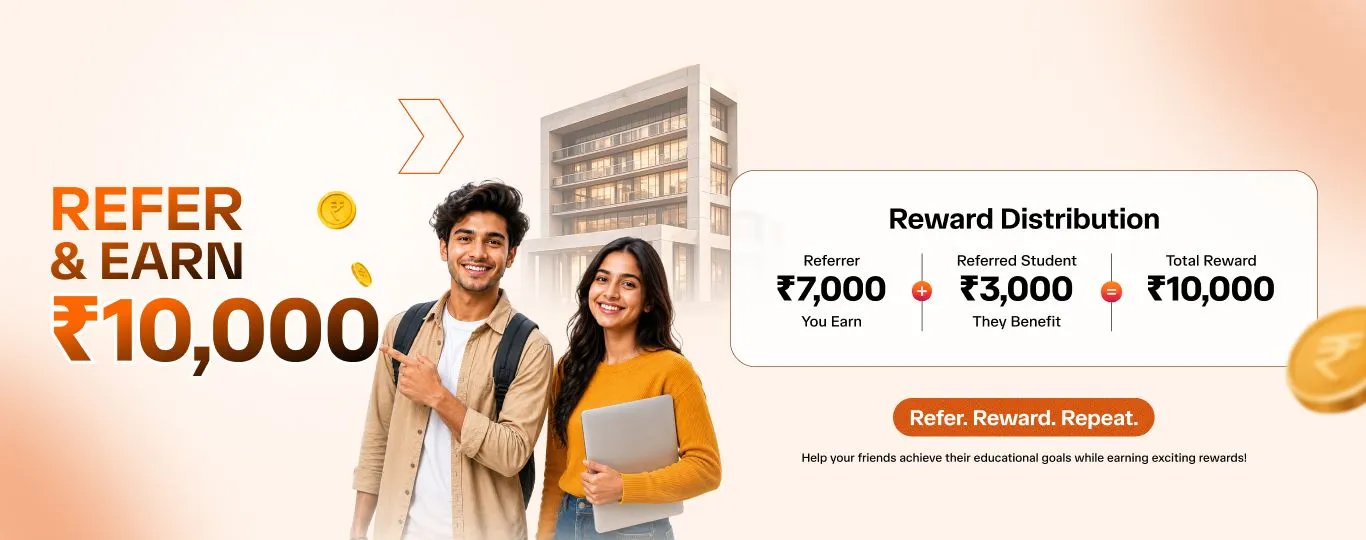
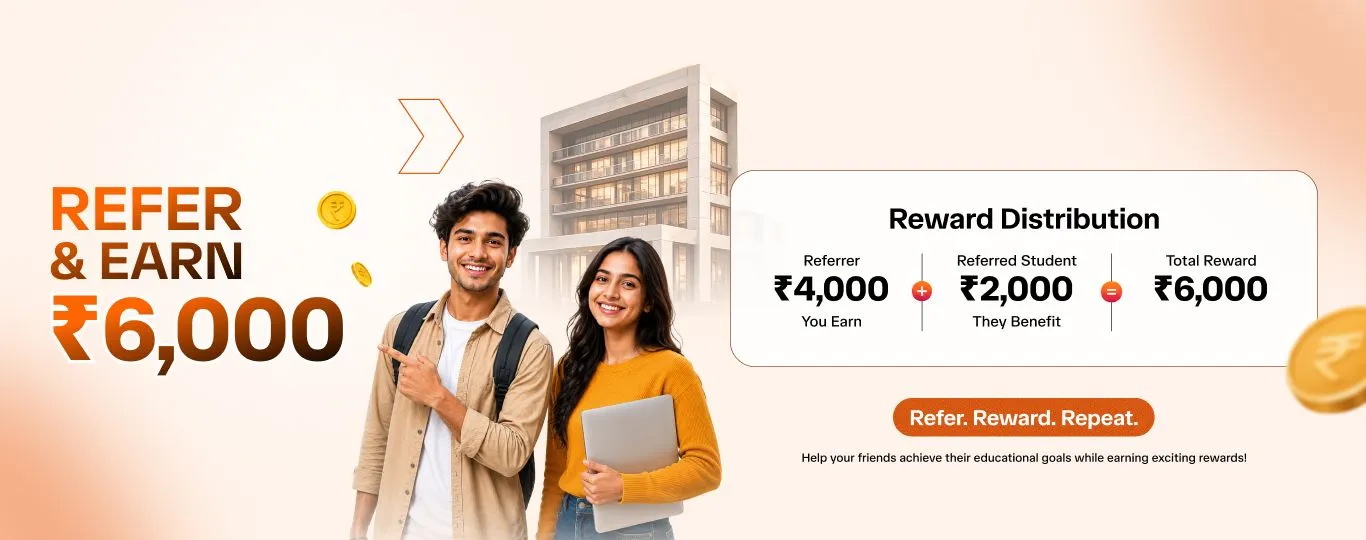
change in aboutmit, index and style of new design

diff --git a/css-new/styles.css b/css-new/styles.css
@@ -4294,3 +4294,28 @@ input.valid, select.valid, textarea.valid { border-color: #22c55e !important; }
   .ai_mobile_img{display:block}
   .ai-cta-btn{width:100%}
 }
+
+/* ── Quiz Form Panel ── */
+.quiz-form-panel{display:none;flex-direction:row;border-radius:20px;overflow:hidden;box-shadow:0 8px 32px rgba(0,0,0,.10);min-height:340px}
+.qfp-left{flex:0 0 42%;padding:2rem 1.75rem;display:flex;flex-direction:column;justify-content:center;background:linear-gradient(150deg, var(--primary-orange) 0%, #9a3412 100%)}
+.qfp-heading{font-size:1.2rem;font-weight:700;color:#fff;line-height:1.4;margin-bottom:.6rem}
+.qfp-sub{font-size:.9rem;color:#fff;}
+.qfp-right{flex:1;background:#fff;padding:1.3rem 1.4rem;display:flex;flex-direction:column;gap:0;justify-content:center}
+.qfp-right form{display:flex;flex-direction:column}
+.qfp-right .eq-submit{background:linear-gradient(90deg, var(--primary-orange), var(--accent-orange));margin-top:.3rem;cursor: pointer;transition: opacity .15s, transform .15s;}
+.qfp-right .eq-submit:hover { opacity: .9; transform: translateY(-1px); }
+
+/* ── Quiz Thanks Panel ── */
+.quiz-thanks-panel{display:none;flex-direction:column;align-items:start;text-align:start;background:#fff;border-radius:20px;padding:2.5rem 2rem;box-shadow:0 8px 32px rgba(0,0,0,.10)}
+.qtp-check{width:58px;height:58px;border-radius:50%;background:#22c55e;display:flex;align-items:center;justify-content:center;color:#fff;font-size:1.4rem;margin-bottom:1.1rem}
+.qtp-heading{font-size:1.6rem;font-weight:800;color:var(--text-dark);margin-bottom:.6rem}
+.qtp-body{font-size:.88rem;color:var(--text-light);max-width:460px;line-height:1.65;margin-bottom:1.4rem}
+.qtp-actions{display:flex;gap:.75rem;flex-wrap:wrap;justify-content:start;}
+.qtp-btn-dark{padding:.6rem 1.2rem;background:var(--text-dark);color:#fff;border:none;border-radius:50px;font-size:.84rem;font-weight:600;cursor:pointer}
+.qtp-btn-outline{padding:.6rem 1.2rem;background:transparent;color:var(--text-dark);border:1.5px solid var(--text-dark);border-radius:50px;font-size:.84rem;font-weight:600;text-decoration:none}
+@media(max-width:768px){
+  .quiz-form-panel{flex-direction:column}
+  .qfp-left{padding:1.25rem}
+  .qfp-right{padding:1.25rem}
+  .qtp-heading{font-size:1.3rem}
+}

diff --git a/assets-new/js/api/validation.js b/assets-new/js/api/validation.js
@@ -341,6 +341,44 @@ function do_form_submit(form_id) {
         });
 
         
+      } else if (form_id == "quizLeadForm") {
+        document.getElementById("quizSubmitBtn").style.visibility = "hidden";
+        var lead = {
+          AuthToken: "MITSDE-11-06-2020",
+          Source: "mitsde",
+          FirstName: $("#quizLeadForm [name='first_name3']").val(),
+          Email:     $("#quizLeadForm [name='email3']").val(),
+          MobileNumber: $("#quizLeadForm [name='MobileNumber']").val(),
+          LeadSource: "Organic-Direct-Form",
+          LeadType: "Online",
+          LeadName: "Contact us form leads",
+          Course: "Not Known",
+          State:  $("#quizLeadForm [name='state']").val(),
+          Textb1: $("#quizLeadForm [name='HQ']").val(),
+        };
+        $.ajax({
+          url: "https://thirdpartyapi.extraaedge.com/api/SaveRequest",
+          type: "POST",
+          data: JSON.stringify(lead),
+          dataType: "Text",
+          crossDomain: true,
+          contentType: "application/json; charset=utf-8",
+          success: function (response) {
+            var fd = new FormData(document.getElementById("quizLeadForm"));
+            fetch("ai-thankyou.php", { method: "POST", body: fd })
+              .finally(function () {
+                if (typeof showQuizThanks === "function") {
+                  showQuizThanks(lead.FirstName.split(" ")[0]);
+                }
+              });
+          },
+          error: function (response) {
+            alert("You have already submitted a form");
+            location.reload();
+          },
+        });
+
+
       } else if (form_id == "menuContactFlotingCity") {
         //document.getElementsByClassName("submitbtn")[1].disabled=true;
         document.getElementById("submitbtnsticky").style.visibility = "hidden";

diff --git a/index.php b/index.php
@@ -99,7 +99,7 @@
                 <!-- <div class="mc-title-big">AI</div> -->
                 <div class="mc-title-sm">Placement</div>
               </div>
-              <div class="mc-label">Know More</div>
+              <div class="mc-label"><a href="placement" class="text-dark">Know More</a></div>
             </div>
 
             <!-- AI Masterclass orange card -->
@@ -353,7 +353,7 @@
         <div class="quiz-right">
           <!-- Cube: decorative, floats outside card -->
 
-          <div class="quiz-card">
+          <div class="quiz-card" id="quizCard">
             <div class="quiz-cube">
               <img src="assets-new/images/rubiks-cube.gif" alt="AI Cube" />
             </div>
@@ -369,6 +369,76 @@
             </div>
             <div class="quiz-dots" id="quizDots"></div>
           </div>
+
+          <!-- FORM PANEL -->
+          <div class="quiz-form-panel" id="quizFormPanel">
+            <div class="qfp-left">
+              <h3 class="qfp-heading">Where should we send your recommendation?</h3>
+              <p class="qfp-sub">Please fill your details</p>
+            </div>
+            <div class="qfp-right">
+              <form id="quizLeadForm" name="quizLeadForm" novalidate accept-charset="utf-8">
+                <input type="hidden" name="csrf_test_name" value="e678298614a47d7e40efe0ccaf02b49c">
+                <input type="hidden" name="product_id3" value="0">
+                <input type="hidden" name="request_type3" value="Enquiry">
+                <input type="hidden" name="submitthirdcontact" value="submitthirdcontact">
+                <input type="hidden" name="Divice" value="<?php echo $divice; ?>">
+                <input type="hidden" name="PageName" value="Homepage Quiz">
+                <input type="hidden" name="latitude" value="">
+                <input type="hidden" name="longitude" value="">
+                <input type="text" name="website" tabindex="-1" autocomplete="off" style="position:absolute;left:-9999px;opacity:0;pointer-events:none;">
+                <div class="eq-field">
+                  <input type="text" name="first_name3" class="eq-input" placeholder="Full Name *" validate="Required|Full Name*" autocomplete="off">
+                </div>
+                <div class="eq-field">
+                  <input type="email" name="email3" class="eq-input" placeholder="Email Address *" validate="Email|Email*" autocomplete="off">
+                </div>
+                <div class="eq-field">
+                  <input type="tel" name="MobileNumber" class="eq-input" placeholder="Mobile Number *" maxlength="10" validate="Required|Phone|Phone*" autocomplete="off">
+                </div>
+                <div class="eq-field">
+                  <select name="state" class="eq-input eq-select" validate="Required|State|State*">
+                    <option value="">Select State *</option>
+                    <option value="Andhra Pradesh">Andhra Pradesh</option><option value="Andaman and Nicobar Islands">Andaman and Nicobar Islands</option>
+                    <option value="Arunachal Pradesh">Arunachal Pradesh</option><option value="Assam">Assam</option><option value="Bihar">Bihar</option>
+                    <option value="Chandigarh">Chandigarh</option><option value="Chhattisgarh">Chhattisgarh</option><option value="Dadar and Nagar Haveli">Dadar and Nagar Haveli</option>
+                    <option value="Daman and Diu">Daman and Diu</option><option value="Delhi">Delhi</option><option value="Lakshadweep">Lakshadweep</option>
+                    <option value="Puducherry">Puducherry</option><option value="Goa">Goa</option><option value="Gujarat">Gujarat</option>
+                    <option value="Haryana">Haryana</option><option value="Himachal Pradesh">Himachal Pradesh</option><option value="Jammu and Kashmir">Jammu and Kashmir</option>
+                    <option value="Jharkhand">Jharkhand</option><option value="Karnataka">Karnataka</option><option value="Kerala">Kerala</option>
+                    <option value="Madhya Pradesh">Madhya Pradesh</option><option value="Maharashtra">Maharashtra</option><option value="Manipur">Manipur</option>
+                    <option value="Meghalaya">Meghalaya</option><option value="Mizoram">Mizoram</option><option value="Nagaland">Nagaland</option>
+                    <option value="Odisha">Odisha</option><option value="Punjab">Punjab</option><option value="Rajasthan">Rajasthan</option>
+                    <option value="Sikkim">Sikkim</option><option value="Tamil Nadu">Tamil Nadu</option><option value="Telangana">Telangana</option>
+                    <option value="Tripura">Tripura</option><option value="Uttar Pradesh">Uttar Pradesh</option><option value="Uttarakhand">Uttarakhand</option>
+                    <option value="West Bengal">West Bengal</option>
+                  </select>
+                </div>
+                <div class="eq-field">
+                  <select name="HQ" class="eq-input eq-select" validate="Required|HQ*">
+                    <option value="">Highest Qualification *</option>
+                    <option value="graduation">Graduation</option>
+                    <option value="post graduation">Post Graduation</option>
+                    <option value="Diploma">Diploma</option>
+                  </select>
+                </div>
+                <button type="button" id="quizSubmitBtn" class="eq-submit" onclick="validate('quizLeadForm')">Register Now</button>
+              </form>
+            </div>
+          </div>
+
+          <!-- THANKS PANEL -->
+          <div class="quiz-thanks-panel" id="quizThanksPanel">
+            <div class="qtp-check"><i class="fa-solid fa-check"></i></div>
+            <h2 class="qtp-heading">Thanks, <span id="quizLeadName">there</span> you're all set!</h2>
+            <p class="qtp-body">Based on your answers, our academic advisor is preparing a personalised Career Acceleration path for you. Our expert will reach out within 24 hours to walk you through what fits best for your goals.</p>
+            <div class="qtp-actions">
+              <!-- <button class="qtp-btn-dark">Talk to an Expert Now</button> -->
+              <a href="tel:+9112207207" class="qtp-btn-dark">Talk to an Expert Now</a>
+              <a href="./#program-section" class="qtp-btn-outline">Explore Programs</a>
+            </div>
+          </div>
+
         </div>
 
       </div>
@@ -442,10 +512,9 @@
         answers[currentQ] = index;
         renderQuiz();
         if (currentQ < quizData.length - 1) {
-          advanceTimer = setTimeout(function () {
-            currentQ++;
-            renderQuiz();
-          }, 420);
+          advanceTimer = setTimeout(function () { currentQ++; renderQuiz(); }, 420);
+        } else {
+          advanceTimer = setTimeout(showQuizForm, 600);
         }
       }
 
@@ -462,10 +531,21 @@
 
       renderQuiz();
     })();
+
+    function showQuizForm() {
+      document.getElementById('quizCard').style.display = 'none';
+      document.getElementById('quizFormPanel').style.display = 'flex';
+    }
+
+    function showQuizThanks(firstName) {
+      document.getElementById('quizLeadName').textContent = firstName || 'there';
+      document.getElementById('quizFormPanel').style.display = 'none';
+      document.getElementById('quizThanksPanel').style.display = 'flex';
+    }
   </script>
 
   <!-- ── Section: Programs Designed for AI-Powered Leaders ── -->
-  <section class="programs-section">
+  <section class="programs-section" id="program-section">
 
     <div class="container">
 
@@ -754,10 +834,10 @@
 
         <div class="mit-adv-right">
           <div class="mit-adv-video-card">
-            <div class="mit-adv-thumb-wrap" id="mitAdvThumbWrap" data-yt-id="D7QDQZDbBmI" role="button" tabindex="0" aria-label="Play MITSDE Unique Offerings video">
+            <div class="mit-adv-thumb-wrap" id="mitAdvThumbWrap" data-yt-id="hTOwfKnCROA" role="button" tabindex="0" aria-label="Play MITSDE Unique Offerings video">
               <!-- <img src="assets-new/images/mit-advantage.png" alt="MITSDE Unique Offerings" class="mit-adv-thumb" /> -->
-              <img src="https://img.youtube.com/vi/D7QDQZDbBmI/maxresdefault.jpg"
-                onerror="this.onerror=null; this.src='https://img.youtube.com/vi/D7QDQZDbBmI/hqdefault.jpg';"
+              <img src="https://img.youtube.com/vi/hTOwfKnCROA/maxresdefault.jpg"
+                onerror="this.onerror=null; this.src='https://img.youtube.com/vi/hTOwfKnCROA/hqdefault.jpg';"
                 alt="MITSDE Unique Offerings" class="mit-adv-thumb" />
               <div class="mit-adv-play-btn">
                 <svg viewBox="0 0 68 48" width="72" height="52">

diff --git a/ai-thankyou.php b/ai-thankyou.php
@@ -1,0 +1,110 @@
+<?php
+include "admin/include/configpdo.php";
+
+if ($_SERVER['REQUEST_METHOD'] !== 'POST') {
+    header("Location: ./", true, 302);
+    exit;
+}
+
+if (!empty($_POST['website'])) {
+    exit("Spam detected");
+}
+
+$ip = $_SERVER['REMOTE_ADDR'];
+
+$first_name = isset($_POST['first_name3']) ? trim($_POST['first_name3']) : '';
+$emaiid     = isset($_POST['email3'])      ? filter_var($_POST['email3'], FILTER_SANITIZE_EMAIL) : '';
+$mobile     = isset($_POST['MobileNumber']) ? preg_replace('/[^0-9]/', '', $_POST['MobileNumber']) : '';
+$state      = isset($_POST['state'])    ? $_POST['state']    : '';
+$HQ         = isset($_POST['HQ'])       ? $_POST['HQ']       : '';
+$Divice     = isset($_POST['Divice'])   ? $_POST['Divice']   : '';
+$PageName   = isset($_POST['PageName']) ? $_POST['PageName'] : '';
+$latitude   = isset($_POST['latitude'])  ? $_POST['latitude']  : '';
+$longitude  = isset($_POST['longitude']) ? $_POST['longitude'] : '';
+
+if (!filter_var($emaiid, FILTER_VALIDATE_EMAIL))        { header("Location: ./"); exit; }
+if (!preg_match("/^[a-zA-Z\s]{2,50}$/", $first_name))  { header("Location: ./"); exit; }
+if (!preg_match('/^[6-9][0-9]{9}$/', $mobile))         { header("Location: ./"); exit; }
+if (preg_match('/http|www|\.com|\.ru|yandex|bitcoin|dating|crypto/i', $first_name)) { header("Location: ./"); exit; }
+
+$chk = $conn->prepare("SELECT COUNT(*) FROM quickcontact WHERE ip = ? AND DateTime >= NOW() - INTERVAL 1 MINUTE");
+$chk->execute([$ip]);
+if ($chk->fetchColumn() >= 5) {
+    http_response_code(429);
+    exit('Too many requests. Please try again later.');
+}
+
+date_default_timezone_set('Asia/Kolkata');
+$curdateTime = date("Y-m-d H:i:s");
+$curdate     = date("Y-m-d");
+
+$stmt = $conn->prepare("
+    INSERT INTO quickcontact
+    (FirstName, EmailID, MobileNo, SourcePath, PageName, DateTime, Date,
+     device, page_name, address, district, city, state, country, longitude, latitude, ip)
+    VALUES (?, ?, ?, ?, ?, ?, ?, ?, ?, ?, ?, ?, ?, ?, ?, ?, ?)
+");
+$result = $stmt->execute([
+    $first_name, $emaiid, $mobile,
+    $state, $HQ,
+    $curdateTime, $curdate,
+    $Divice, $PageName,
+    '', '', '', $state, '',
+    $longitude, $latitude, $ip
+]);
+
+if (!$result) {
+    error_log("ai-thankyou quickcontact insert failed");
+}
+
+/* AJAX requests get JSON back — page does inline thanks panel */
+if (!empty($_SERVER['HTTP_X_REQUESTED_WITH']) && strtolower($_SERVER['HTTP_X_REQUESTED_WITH']) === 'xmlhttprequest') {
+    header('Content-Type: application/json');
+    echo json_encode(['ok' => true, 'name' => $first_name]);
+    exit;
+}
+
+$pagename = (isset($_SERVER['HTTPS']) ? 'https' : 'http') . "://$_SERVER[HTTP_HOST]$_SERVER[REQUEST_URI]";
+?>
+<!DOCTYPE html>
+<html lang="en">
+<head>
+    <meta charset="UTF-8">
+    <meta name="viewport" content="width=device-width, initial-scale=1.0">
+    <title>Thank You | MIT School of Distance Education</title>
+    <meta name="robots" content="noindex, nofollow">
+    <link rel="icon" type="image/png" href="assets-new/images/favicon-mit.ico">
+    <link rel="stylesheet" href="css-new/bootstrap.min.css">
+    <link rel="stylesheet" href="css-new/styles.css">
+    <link rel="stylesheet" href="css-new/fonts.css">
+<?php include "5-common-seo-tag-1.php" ?>
+</head>
+<body>
+  <?php include "5-common-seo-tag-2.php" ?>
+<?php include "header-new.php" ?>
+
+<section style="min-height:60vh;display:flex;align-items:center;justify-content:center;padding:4rem 1rem;">
+    <div style="text-align:center;max-width:520px;">
+        <svg viewBox="0 0 80 80" fill="none" style="width:80px;height:80px;margin-bottom:1.5rem;">
+            <circle cx="40" cy="40" r="38" stroke="#22c55e" stroke-width="3"/>
+            <path d="M22 41l12 12 24-24" stroke="#22c55e" stroke-width="3"
+                  stroke-linecap="round" stroke-linejoin="round"/>
+        </svg>
+        <h1 style="font-size:2rem;font-weight:700;color:#000;margin-bottom:.75rem;">
+            Thanks, <?php echo htmlspecialchars($first_name); ?> you're all set!
+        </h1>
+        <p style="color:#6b7280;font-size:1.05rem;line-height:1.7;margin-bottom:2rem;">
+            Based on your answers, our academic advisor is preparing a personalised Career Acceleration path for you. Our expert will reach out within 24 hours to walk you through what fits best for your goals.
+        </p>
+        <a href="./" style="display:inline-block;padding:.75rem 2rem;background:linear-gradient(90deg,#ea580c,#f97316);color:#fff;border-radius:8px;font-weight:700;text-decoration:none;margin-right:.5rem;">
+            Back to Home
+        </a>
+        <a href="post-graduate-diploma-in-management" style="display:inline-block;padding:.75rem 2rem;background:transparent;color:#000;border:1.5px solid #000;border-radius:8px;font-weight:700;text-decoration:none;">
+            Explore Programs
+        </a>
+    </div>
+</section>
+
+<?php include "footer-new.php"; ?>
+</body>
+</html>

diff --git a/aboutMIT.php b/aboutMIT.php
@@ -46,6 +46,7 @@
         </nav>
         <div class="container">
             <div class="hero-background"></div>
+
             <h1 class="page-hero-heading">
                 <span class="hero-bg-text">About</span>
                 <span class="page-hero-title">MIT School of Distance Education</span>
@@ -91,7 +92,7 @@
                     <h2 class="stage-title text-orange">Prof (Dr.) Vishwanath D Karad</h2>
                     <p class="section-sub">
                         Founder &amp; Chief Patron - MAEER's MIT Group of Institutions<br />
-                        Founder President - MIT-WPU
+                        Founder President - MIT
                     </p>
                     <hr class="about-leader-hr" />
                     <div class="sub-text">
@@ -145,6 +146,24 @@
 
             <!-- Leader 3 -->
             <article class="about-leader-card">
+                <div>
+                    <img src="assets-new/images/mr-digvijay-karad.webp" alt="Digvijay Karad - Group Director, MIT INDIA, MITSDE, VGWS"
+                        class="about-leader-img" width="260" height="260" loading="lazy" />
+                </div>
+                <div class="about-leader-content">
+                    <h3 class="stage-title text-orange">Mr. Digvijay Karad</h3>
+                    <p class="section-sub">Group Director, MIT INDIA, MITSDE, VGWS</p>
+                    <hr class="about-leader-hr" />
+                    <div class="sub-text">
+                        <p>Representing a new generation of institutional leadership, Mr. Digvijay Karad is focused on strengthening innovation, entrepreneurship, and future-oriented learning ecosystems across MIT INDIA. His work spans educational innovation, startup incubation, industry collaboration, and the development of platforms that connect academia with emerging economic and societal needs.</p>
+                        <p>His vision reflects MIT INDIA's continuing commitment to preparing learners and institutions for an evolving global future.</p>
+                        
+                    </div>
+                </div>
+            </article>
+
+            <!-- Leader 4 -->
+            <article class="about-leader-card about-leader-card--reverse">
                 <div>
                     <img src="assets-new/images/dr-suhrud-neurgaonkar.webp" alt="Dr. Suhrud Neurgaonkar - Director, MITSDE"
                         class="about-leader-img" width="260" height="260" loading="lazy" />
